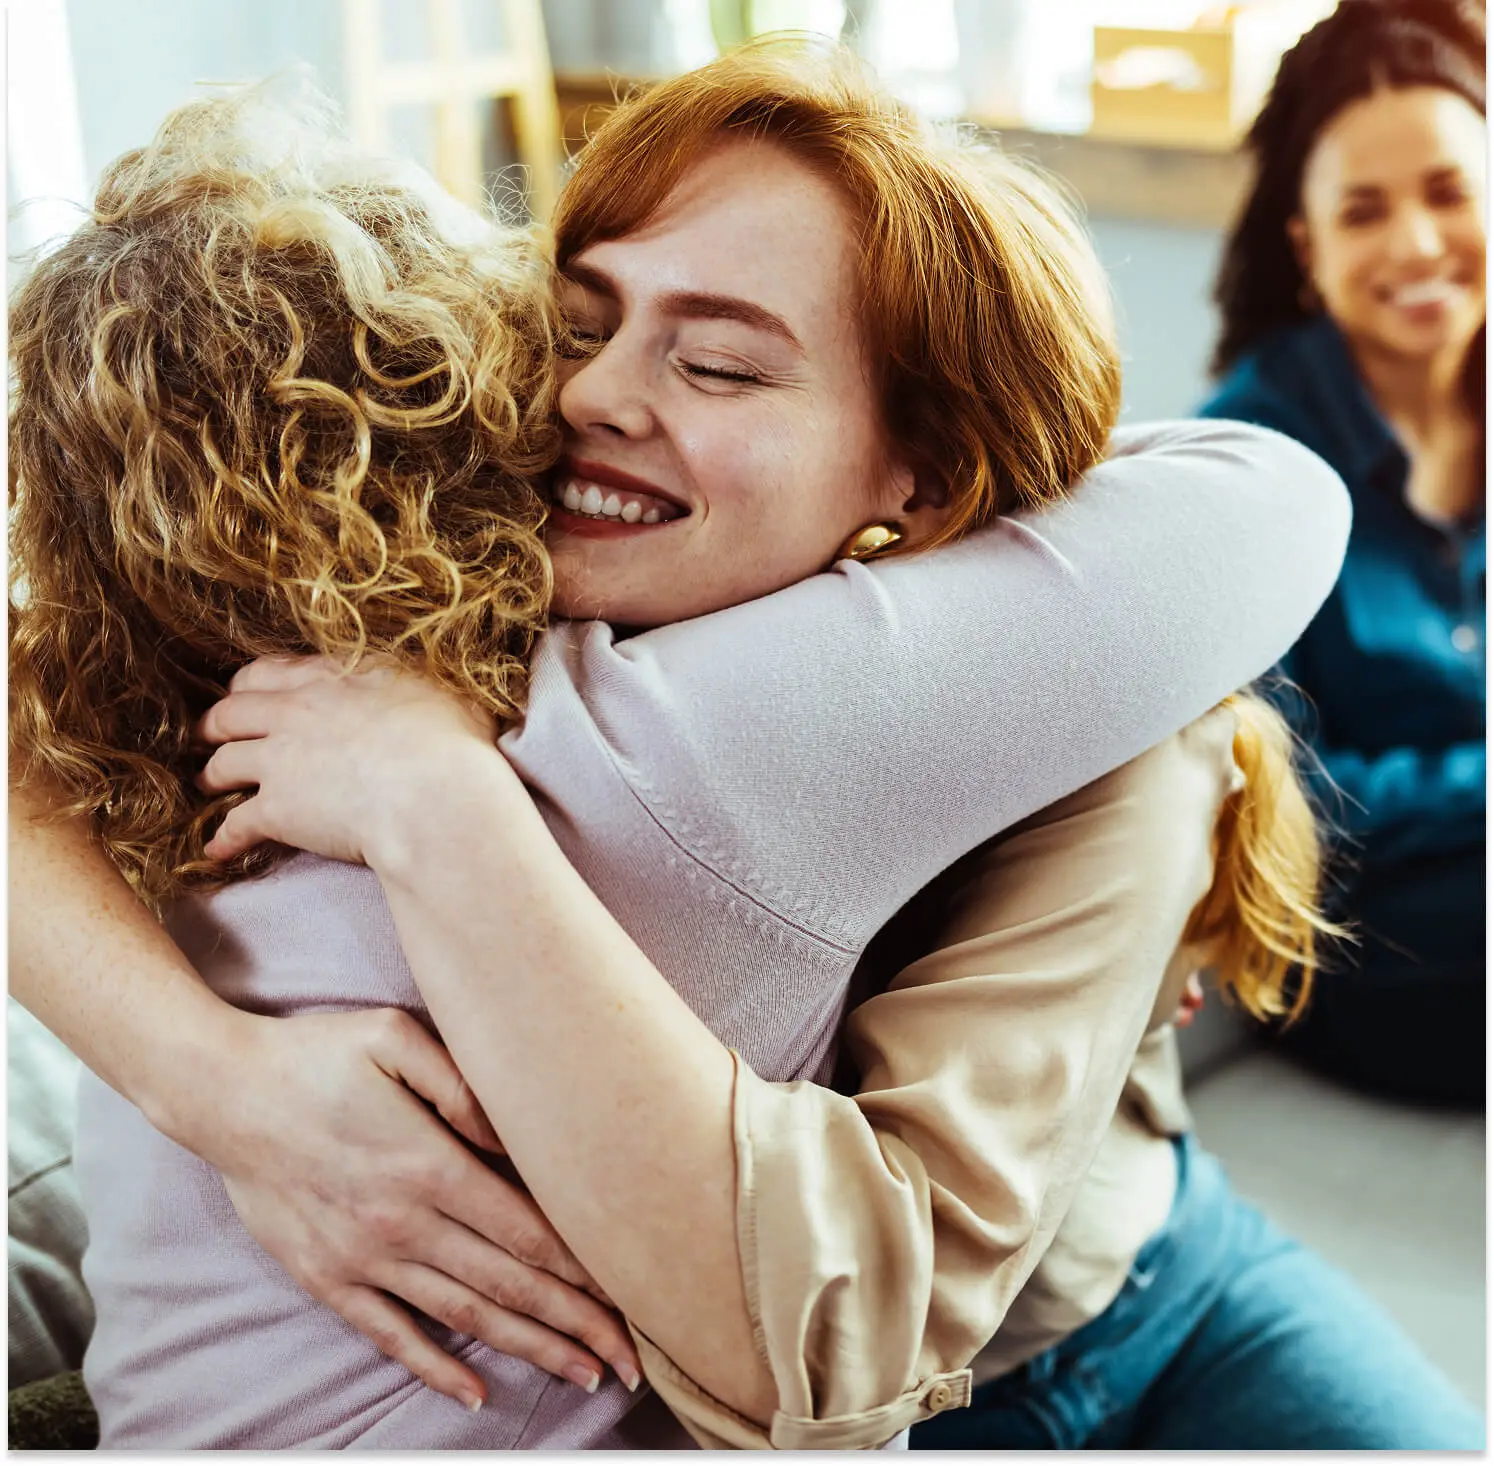
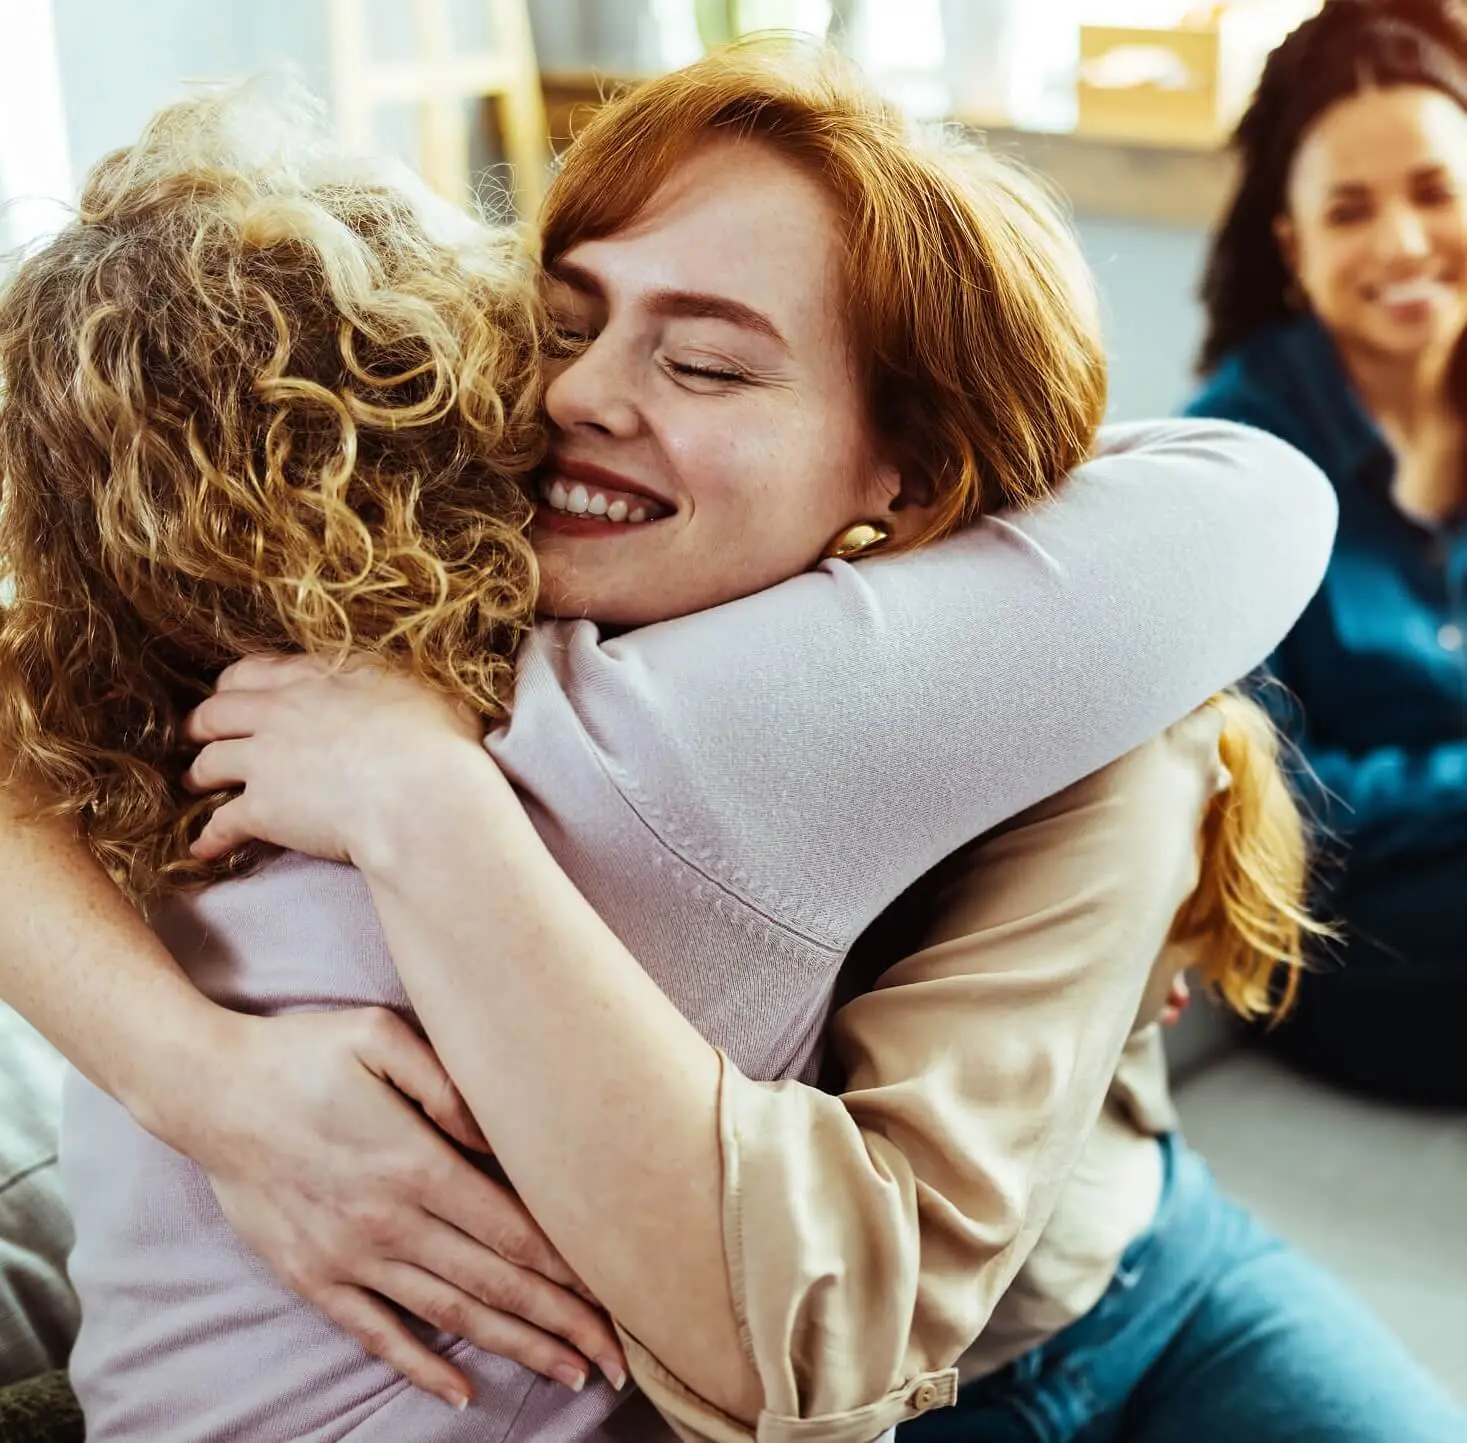
second commit primarily spacing fixes

diff --git a/index.html b/index.html
@@ -22,17 +22,17 @@
     <!-- Hero Section -->
     <section class="hero-section">
         <!-- Full-bleed image outside container -->
-        <picture>
-  <source srcset="images/women-hugging-thankful.webp" type="image/webp">
-  <source srcset="images/women-hugging-thankful.jpg" type="image/jpeg">
-  <img 
-    src="images/women-hugging-thankful.jpg" 
-    alt="Women hugging so thankful" 
-    class="hero-image-bleed" 
-    loading="lazy">
-</picture>
+        
         <div class="container">
             <div class="hero-content">
+                <picture>
+                    <source srcset="images/women-hugging-thankful.webp" type="image/webp">
+                    <source srcset="images/women-hugging-thankful.jpg" type="image/jpeg">
+                    <img src="images/women-hugging-thankful.jpg" 
+                        alt="Women hugging so thankful" 
+                        class="hero-image-bleed" 
+                                loading="lazy">
+                        </picture>
                 <div class="hero-text">
                     <h1 class="hero-title">Your Elder care<br>administrator</h1>
                     <p class="hero-subtitle">
@@ -107,53 +107,54 @@
     </section>
 
     <!-- Carrying Section -->
-    <section class="carrying-section">
-        <div class="container">
-            <div class="carrying-text">
-                <h2>You're carrying a lot.</h2>
-                <p class="text">
-                    Juggling careers, kids, and the relentless<br>
-                    needs of Elder care often feels impossibly<br>
-                    heavy—isolating, exhausting, and lonely.
-                </p>
-                <p class="text">
-                    Long lists, family tensions, and sleepless<br>
-                    nights pile on, until the burden feels too much<br>
-                    to carry.
-                </p>
-                <p class="text">
-                    Even when you're giving everything you have.
-                </p>
-            </div>
-        </div>
-        
-        <!-- Full-bleed images outside container -->
-        <div class="image-grid-bleed">
-            <picture>
-                <source srcset="images/man-driving-elder.webp" type="image/webp">
-                <source srcset="images/man-driving-elder.jpg" type="image/jpeg">
-                <img src="images/man-driving-elder.jpg" alt="Man driving elder" loading="lazy">
-            </picture>
+<section class="carrying-section">
+  <div class="container">
+    <div class="carrying-text">
+      <h2>You're carrying a lot.</h2>
+      <p class="text">
+        Juggling careers, kids, and the relentless<br>
+        needs of Elder care often feels impossibly<br>
+        heavy—isolating, exhausting, and lonely.
+      </p>
+      <p class="text">
+        Long lists, family tensions, and sleepless<br>
+        nights pile on, until the burden feels too much<br>
+        to carry.
+      </p>
+      <p class="text">
+        Even when you're giving everything you have.
+      </p>
+    </div>
 
-            <picture>
-                <source srcset="images/woman-grocery-shopping-alone.webp" type="image/webp">
-                <source srcset="images/woman-grocery-shopping-alone.jpg" type="image/jpeg">
-                <img src="images/woman-grocery-shopping-alone.jpg" alt="Woman grocery shopping alone" loading="lazy">
-            </picture>
+    <!-- Gallery images INSIDE container -->
+    <div class="image-grid-bleed">
+      <picture>
+        <source srcset="images/man-driving-elder.webp" type="image/webp">
+        <source srcset="images/man-driving-elder.jpg" type="image/jpeg">
+        <img src="images/man-driving-elder.jpg" alt="Man driving elder" loading="lazy">
+      </picture>
 
-            <picture>
-                <source srcset="images/woman-paying-bills.webp" type="image/webp">
-                <source srcset="images/woman-paying-bills.jpg" type="image/jpeg">
-                <img src="images/woman-paying-bills.jpg" alt="Woman paying bills" loading="lazy">
-            </picture>
+      <picture>
+        <source srcset="images/woman-grocery-shopping-alone.webp" type="image/webp">
+        <source srcset="images/woman-grocery-shopping-alone.jpg" type="image/jpeg">
+        <img src="images/woman-grocery-shopping-alone.jpg" alt="Woman grocery shopping alone" loading="lazy">
+      </picture>
 
-            <picture>
-                <source srcset="images/playing-cards-with-elder.webp" type="image/webp">
-                <source srcset="images/playing-cards-with-elder.jpg" type="image/jpeg">
-                <img src="images/playing-cards-with-elder.jpg" alt="Playing cards with elder" loading="lazy">
-            </picture>
-</div>
-    </section>
+      <picture>
+        <source srcset="images/woman-paying-bills.webp" type="image/webp">
+        <source srcset="images/woman-paying-bills.jpg" type="image/jpeg">
+        <img src="images/woman-paying-bills.jpg" alt="Woman paying bills" loading="lazy">
+      </picture>
+
+      <picture>
+        <source srcset="images/playing-cards-with-elder.webp" type="image/webp">
+        <source srcset="images/playing-cards-with-elder.jpg" type="image/jpeg">
+        <img src="images/playing-cards-with-elder.jpg" alt="Playing cards with elder" loading="lazy">
+      </picture>
+    </div>
+  </div>
+</section>
+
 
     <!-- Testimonials -->
     <section class="testimonials-section">

diff --git a/styles-v2.css b/styles-v2.css
@@ -16,8 +16,8 @@ body {
 .container {
     max-width: 1440px;
     margin: 0 auto;
-    padding: 0 130px;
-    box-sizing: content-box;
+    padding: 0 60px;
+    box-sizing: border-box;
 }
 
 /* Header */
@@ -63,7 +63,7 @@ body {
 /* Full-bleed hero image */
 .hero-image-bleed {
     position: absolute;
-    left: 0;
+    left: -200px;
     top: 50%;
     transform: translateY(-50%);
     width: 739px;
@@ -313,7 +313,7 @@ textarea {
 /* Full-bleed gallery images */
 .image-grid-bleed {
     position: absolute;
-    right: -150px;
+    right: -180px;
     top: 50%;
     transform: translateY(-50%);
     display: flex;
@@ -322,7 +322,7 @@ textarea {
     height: 700px;
 }
 
-/* Target picture wrappers */
+/* Picture wrappers */
 .image-grid-bleed picture {
     display: block;
     width: 350px;
@@ -469,7 +469,7 @@ textarea {
     font-family: 'Source Sans Pro', sans-serif;
     font-size: 20px;
     color: #FFFFF4;
-    margin-bottom: 45px;
+    margin-bottom: 40px;
 }
 /* Force paragraph color in Founders section */
 .founders-section .container > p {
@@ -493,6 +493,7 @@ textarea {
     border-radius: 50%;
     object-fit: cover;
     border: 8px solid #FFFFF4;
+    margin-top: 30px;
     margin-bottom: 15px;
     box-shadow: 0 6px 20px rgba(0,0,0,0.1);
 }
